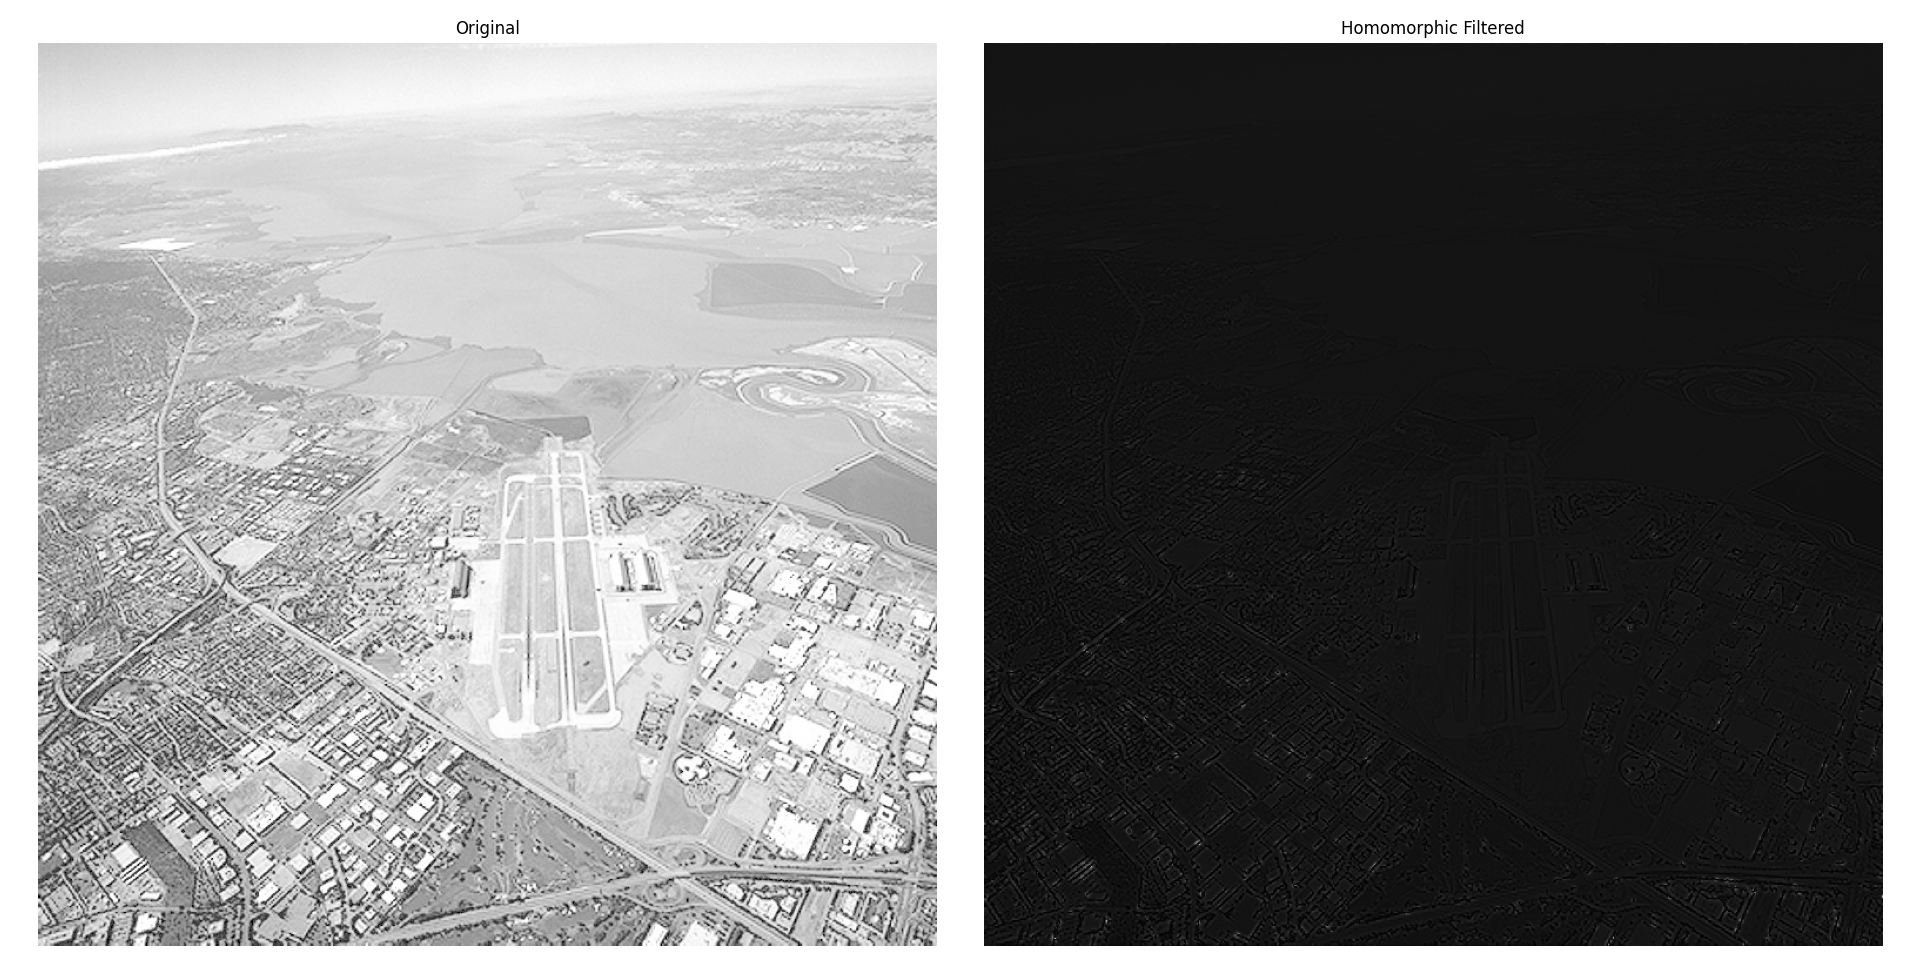
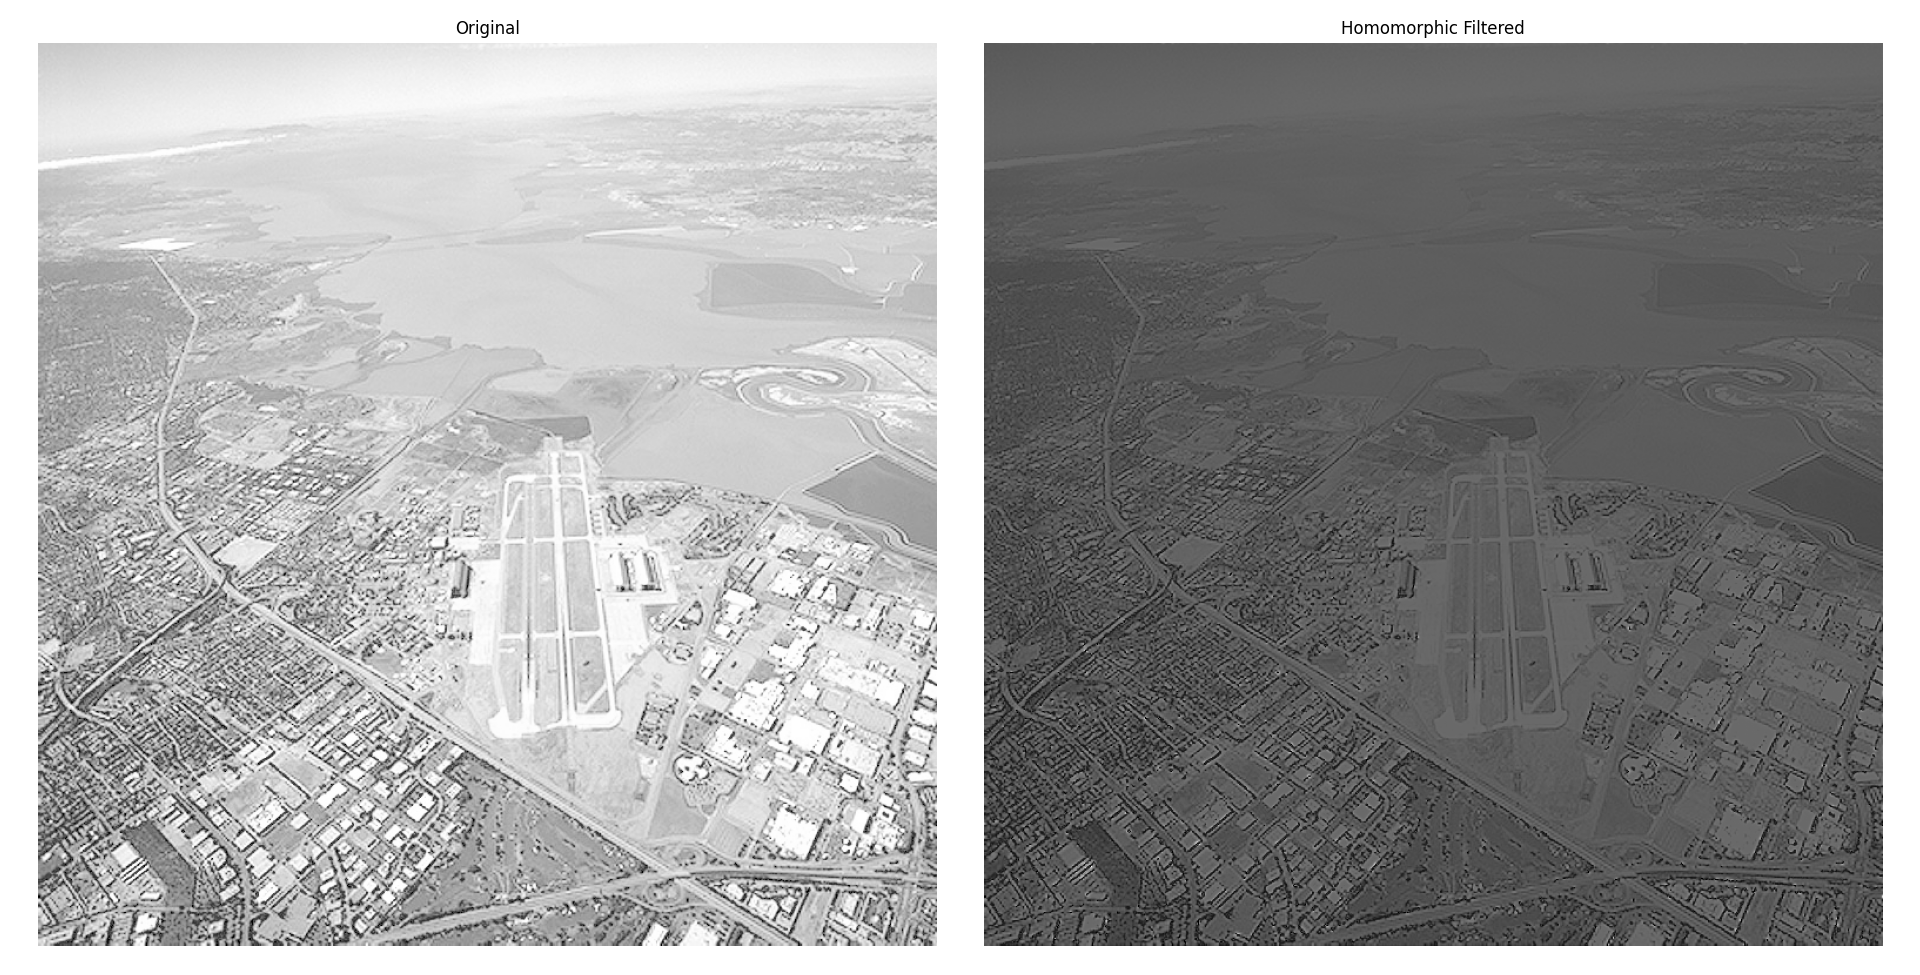
Assignment12 done

diff --git a/assignmentQ12_improve.py b/assignmentQ12_improve.py
@@ -36,9 +36,9 @@ X, Y = np.meshgrid(x, y)
 D2 = (X - ccol)**2 + (Y - crow)**2
 
 # Parameters (IMPORTANT)
-gamma_l = 0.5   # suppress illumination
-gamma_h = 2.5   # enhance reflectance
-sigma = 100      # control cutoff (increase if too dark)
+gamma_l = 0.7   # suppress illumination
+gamma_h = 1.5   # enhance reflectance
+sigma = 120      # control cutoff (increase if too dark)
 
 # Homomorphic filter
 H = (gamma_h - gamma_l) * (1 - np.exp(-D2 / (2 * sigma**2))) + gamma_l
